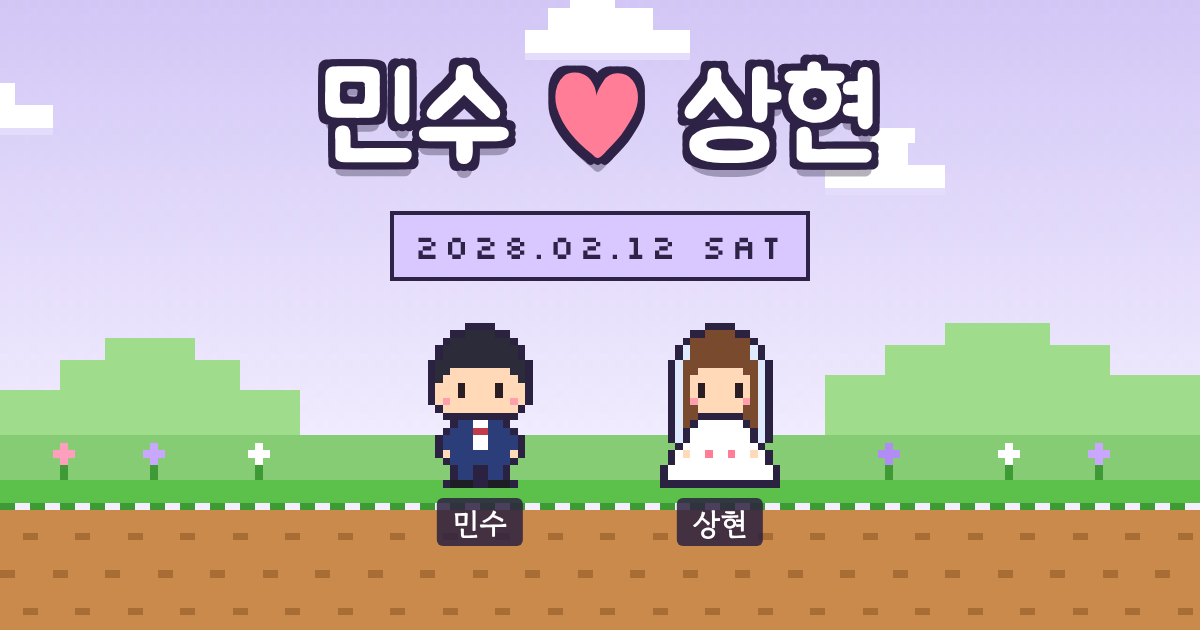
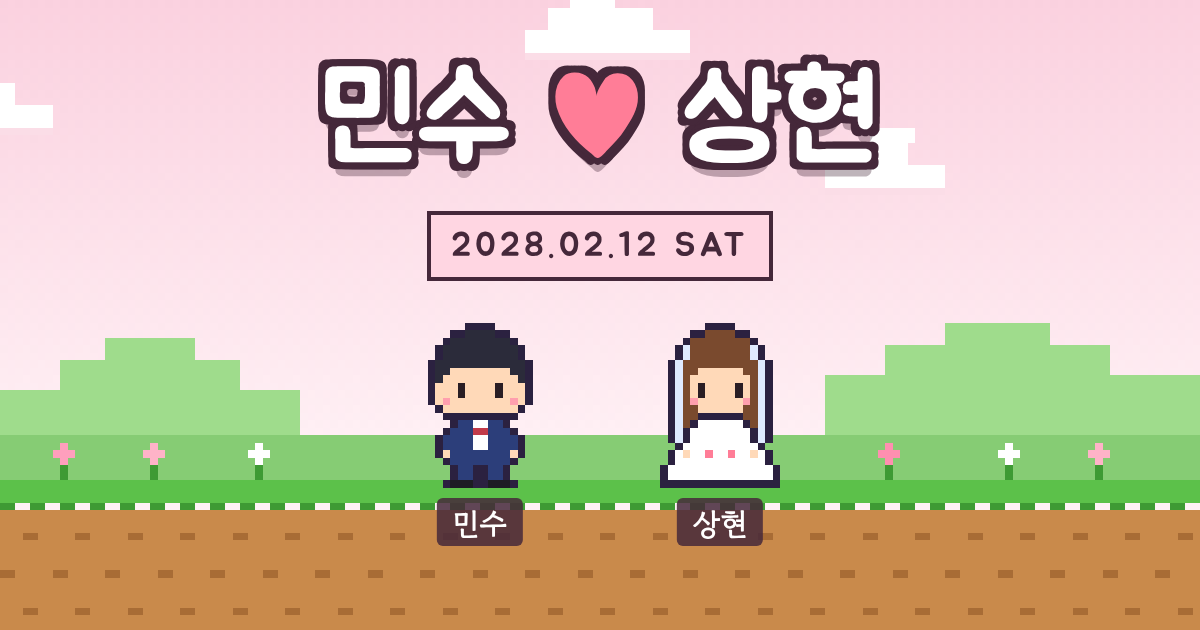
핑크 테마로 변경, 대사창 가운데 정렬, 링크 미리보기 그림 새로 만들기
Claude-Session: https://claude.ai/code/session_01RqerWgaCaLmnUzuXHHVWnt

diff --git a/wedding-quest/public/index.html b/wedding-quest/public/index.html
@@ -10,7 +10,7 @@
 <meta property="og:title" content="민수와 상현의 결혼 퀘스트">
 <meta property="og:description" content="2028.02.12 SAT 오전 11시 · 비렌티 (천안)">
 <!-- 링크 미리보기 그림: scripts/og.mjs 로 다시 만들 수 있어요 -->
-<meta property="og:image" content="https://wedding-quest-seven.vercel.app/og.png">
+<meta property="og:image" content="https://wedding-quest-seven.vercel.app/og.png?v=2">
 <meta property="og:image:width" content="1200">
 <meta property="og:image:height" content="630">
 <meta property="og:image:alt" content="도트 캐릭터 민수와 상현이 나란히 서 있는 결혼 퀘스트 그림">
@@ -26,8 +26,8 @@ document.documentElement.classList.add('intro');
 <style>
 /* Layout: one phone-width column of game windows floating over a pixel sky; HUD → main quest title → scene → STEP 1~6 → inventory */
 :root{
-  --ink:#2e2347; --paper:#fdfbff; --paper2:#ece4fb;
-  --tab:#cdbdf8; --accent:#5b3fb8; --gold:#d8c8ff; --gold-d:#b39cf0; --rose:#ff7d97; --leaf:#55b947; --mute:#4b4066;
+  --ink:#45283a; --paper:#fffbfc; --paper2:#fbe3ea;
+  --tab:#ffcadb; --accent:#c2255c; --gold:#ffd6e2; --gold-d:#f4a6bd; --rose:#ff7d97; --leaf:#55b947; --mute:#5e4552;
   --f-display:"Jua","Gowun Dodum",system-ui,sans-serif;
   --f-body:"Gowun Dodum","Apple SD Gothic Neo","Malgun Gothic",system-ui,sans-serif;
   --f-pixel:var(--f-display);
@@ -38,18 +38,18 @@ body{margin:0;background:#fff;color:var(--ink);font-family:var(--f-body);font-si
 .wrap{max-width:440px;margin:0 auto;padding-left:max(16px,env(safe-area-inset-left,0px));padding-right:max(16px,env(safe-area-inset-right,0px));padding-block:14px 40px;display:flex;flex-direction:column;gap:18px}
 
 /* HUD */
-.hud{display:flex;justify-content:space-between;align-items:center;gap:10px;background:rgba(46,35,71,.82);color:#fff;border:3px solid var(--ink);border-radius:6px;padding:6px 10px;font-family:var(--f-pixel);font-size:12px;letter-spacing:.06em}
-.hud .dday{color:#e6dbff;font-weight:700;font-variant-numeric:tabular-nums}
+.hud{display:flex;justify-content:space-between;align-items:center;gap:10px;background:rgba(69,40,58,.82);color:#fff;border:3px solid var(--ink);border-radius:6px;padding:6px 10px;font-family:var(--f-pixel);font-size:12px;letter-spacing:.06em}
+.hud .dday{color:#ffd6e2;font-weight:700;font-variant-numeric:tabular-nums}
 
 /* Scene */
 .scene{position:relative;border:3px solid var(--ink);border-radius:6px;overflow:hidden;box-shadow:0 4px 0 var(--ink)}
 .scene canvas{display:block;width:100%;height:auto;image-rendering:pixelated;image-rendering:crisp-edges}
 .scene .title{position:absolute;left:0;right:0;top:7%;text-align:center;pointer-events:none}
 .scene h1{margin:0;font-family:var(--f-display);font-weight:400;font-size:clamp(30px,9vw,40px);line-height:1.1;color:#fff;text-wrap:balance;
-  text-shadow:3px 0 var(--ink),-3px 0 var(--ink),0 3px var(--ink),0 -3px var(--ink),3px 3px var(--ink),-3px 3px var(--ink),3px -3px var(--ink),-3px -3px var(--ink),0 6px 0 rgba(43,33,64,.35)}
+  text-shadow:3px 0 var(--ink),-3px 0 var(--ink),0 3px var(--ink),0 -3px var(--ink),3px 3px var(--ink),-3px 3px var(--ink),3px -3px var(--ink),-3px -3px var(--ink),0 6px 0 rgba(69,40,58,.35)}
 .scene h1 .h{color:var(--rose)}
 .scene .date{display:inline-block;margin-top:6px;font-family:var(--f-pixel);font-size:12px;letter-spacing:.12em;color:var(--ink);background:var(--gold);border:2px solid var(--ink);padding:1px 8px}
-.tag{position:absolute;top:84%;transform:translateX(-50%);background:rgba(43,33,64,.85);color:#fff;font-size:11px;line-height:1;padding:4px 7px 3px;border-radius:3px;white-space:nowrap;font-family:var(--f-body);font-weight:700}
+.tag{position:absolute;top:84%;transform:translateX(-50%);background:rgba(69,40,58,.85);color:#fff;font-size:11px;line-height:1;padding:4px 7px 3px;border-radius:3px;white-space:nowrap;font-family:var(--f-body);font-weight:700}
 .tag.groom{left:40%} .tag.bride{left:60%}
 
 /* Windows */
@@ -84,7 +84,7 @@ body{margin:0;background:#fff;color:var(--ink);font-family:var(--f-body);font-si
 .cal-h{text-align:center;font-family:var(--f-pixel);font-size:12px;letter-spacing:.1em;margin-bottom:6px}
 .cal-g{display:grid;grid-template-columns:repeat(7,1fr);text-align:center;font-family:var(--f-pixel);font-size:12px;gap:2px;font-variant-numeric:tabular-nums}
 .cal-g .dow{color:var(--mute);font-size:11px}
-.cal-g .sun{color:#d9455f} .cal-g .sat{color:var(--accent)}
+.cal-g .sun{color:#d9455f} .cal-g .sat{color:#3d6bd1}
 .cal-g .on{background:var(--rose);color:#fff;border:2px solid var(--ink);border-radius:3px;position:relative}
 .cal-g .on::after{content:"♥";position:absolute;top:-11px;left:50%;transform:translateX(-50%);color:var(--rose);font-size:10px}
 
@@ -112,7 +112,7 @@ body{margin:0;background:#fff;color:var(--ink);font-family:var(--f-body);font-si
 .rk{font-family:var(--f-display)} .pz{min-width:0}
 footer{text-align:center;font-family:var(--f-pixel);font-size:11px;letter-spacing:.1em;color:var(--mute)}
 
-.toast{position:fixed;left:50%;bottom:calc(18px + env(safe-area-inset-bottom,0px));transform:translate(-50%,20px);opacity:0;pointer-events:none;background:rgba(43,33,64,.92);color:#fff;border:2px solid var(--gold);border-radius:4px;padding:8px 14px;font-size:13px;max-width:calc(100% - 32px);text-align:center;transition:.25s;z-index:20}
+.toast{position:fixed;left:50%;bottom:calc(18px + env(safe-area-inset-bottom,0px));transform:translate(-50%,20px);opacity:0;pointer-events:none;background:rgba(69,40,58,.92);color:#fff;border:2px solid var(--gold);border-radius:4px;padding:8px 14px;font-size:13px;max-width:calc(100% - 32px);text-align:center;transition:.25s;z-index:20}
 .toast.show{opacity:1;transform:translate(-50%,0)}
 @media (prefers-reduced-motion:reduce){.toast{transition:none}}
 
@@ -122,7 +122,7 @@ footer{text-align:center;font-family:var(--f-pixel);font-size:11px;letter-spacin
 .announce{border:3px solid var(--ink);border-radius:4px;background:linear-gradient(180deg,#fff6d6,#fff);padding:10px;display:flex;flex-direction:column;gap:8px}
 .announce h3{margin:0;font-family:var(--f-display);font-weight:400;font-size:17px;display:flex;align-items:center;gap:8px}
 .announce h3 small{font-family:var(--f-pixel);font-size:10px;letter-spacing:.12em;color:#fff;background:var(--rose);border:2px solid var(--ink);padding:0 6px}
-.ranks .win-name{font-family:var(--f-display);color:#5b3fb8}
+.ranks .win-name{font-family:var(--f-display);color:var(--accent)}
 
 /* Prologue overlay */
 .intro-ov{display:none;position:fixed;inset:0;z-index:30;background:#fff;overflow-y:auto;overscroll-behavior:contain}
@@ -130,25 +130,25 @@ html.intro .intro-ov{display:block}
 html.intro body{overflow:hidden}
 .intro-ov.bye{opacity:0;transition:opacity .5s}
 .intro-in{max-width:440px;min-height:100%;margin:0 auto;padding:14px max(16px,env(safe-area-inset-right,0px)) calc(24px + env(safe-area-inset-bottom,0px)) max(16px,env(safe-area-inset-left,0px));display:flex;flex-direction:column;gap:16px}
-.intro-hud{display:flex;justify-content:space-between;align-items:center;gap:10px;background:rgba(46,35,71,.82);color:#fff;border:3px solid var(--ink);border-radius:6px;padding:6px 10px;font-family:var(--f-pixel);font-size:12px;letter-spacing:.06em}
+.intro-hud{display:flex;justify-content:space-between;align-items:center;gap:10px;background:rgba(69,40,58,.82);color:#fff;border:3px solid var(--ink);border-radius:6px;padding:6px 10px;font-family:var(--f-pixel);font-size:12px;letter-spacing:.06em}
 .intro-ov .btn:focus-visible{outline:3px solid var(--rose);outline-offset:2px}
 .stage{display:flex;flex-direction:column;gap:16px}
 .logo{text-align:center;font-family:var(--f-display);font-size:clamp(34px,11vw,46px);line-height:1.05;color:#fff;margin:18px 0 4px;
-  text-shadow:3px 0 var(--ink),-3px 0 var(--ink),0 3px var(--ink),0 -3px var(--ink),3px 3px var(--ink),-3px 3px var(--ink),3px -3px var(--ink),-3px -3px var(--ink),0 6px 0 rgba(43,33,64,.35)}
+  text-shadow:3px 0 var(--ink),-3px 0 var(--ink),0 3px var(--ink),0 -3px var(--ink),3px 3px var(--ink),-3px 3px var(--ink),3px -3px var(--ink),-3px -3px var(--ink),0 6px 0 rgba(69,40,58,.35)}
 .logo small{display:block;font-family:var(--f-pixel);font-size:12px;letter-spacing:.2em;color:var(--ink);text-shadow:none;margin-bottom:8px}
 .party{display:flex;gap:10px}
 .party .mem{flex:1;min-width:0;background:#fff;border:2px solid var(--ink);border-radius:4px;padding:6px;display:flex;gap:8px;align-items:center}
-.party canvas{flex:none;width:48px;height:auto;image-rendering:pixelated;background:linear-gradient(180deg,#d9ccff,#f4efff);border:2px solid var(--ink);border-radius:3px}
+.party canvas{flex:none;width:48px;height:auto;image-rendering:pixelated;background:linear-gradient(180deg,#ffd6e2,#fff3f6);border:2px solid var(--ink);border-radius:3px}
 .party b{display:block;font-family:var(--f-display);font-weight:400;font-size:15px}
 .party span{font-size:13px;color:var(--mute)}
 .start-btns{display:flex;flex-direction:column;gap:10px;align-items:stretch}
 .start-btns .btn{justify-content:center}
 .big-skip{font-size:17px;padding:10px 14px}
 #stPlay .scene,.talk{cursor:pointer;-webkit-tap-highlight-color:transparent;user-select:none}
-.talk{display:flex;flex-direction:column;align-items:flex-start}
-.tap{align-self:flex-end;font-family:var(--f-display);font-size:14px;color:#5b3fb8;animation:blink 1s steps(2) infinite}
-.choices{align-items:center}
-.go-hint{font-family:var(--f-display);font-size:16px;color:#5b3fb8;animation:nudge 1s ease-in-out infinite}
+.talk{display:flex;flex-direction:column;align-items:center;text-align:center}
+.tap{align-self:flex-end;font-family:var(--f-display);font-size:14px;color:var(--accent);animation:blink 1s steps(2) infinite}
+.choices{align-items:center;justify-content:center}
+.go-hint{font-family:var(--f-display);font-size:16px;color:var(--accent);animation:nudge 1s ease-in-out infinite}
 @keyframes nudge{50%{transform:translateX(-4px)}}
 .blink{animation:blink 1s steps(2) infinite}
 .replay{align-self:center;font:inherit;font-family:var(--f-body);font-size:14px;color:var(--mute);background:transparent;border:0;text-decoration:underline;cursor:pointer}
@@ -162,7 +162,7 @@ html.intro body{overflow:hidden}
 
 /* Main quest title */
 .mq{margin:4px 0 -4px;text-align:center;font-family:var(--f-display);font-weight:400;font-size:clamp(30px,9.5vw,40px);line-height:1.15;color:#fff;text-wrap:balance;
-  text-shadow:3px 0 var(--ink),-3px 0 var(--ink),0 3px var(--ink),0 -3px var(--ink),3px 3px var(--ink),-3px 3px var(--ink),3px -3px var(--ink),-3px -3px var(--ink),0 6px 0 rgba(43,33,64,.35)}
+  text-shadow:3px 0 var(--ink),-3px 0 var(--ink),0 3px var(--ink),0 -3px var(--ink),3px 3px var(--ink),-3px 3px var(--ink),3px -3px var(--ink),-3px -3px var(--ink),0 6px 0 rgba(69,40,58,.35)}
 .mq small{display:table;margin:0 auto 8px;font-family:var(--f-pixel);font-size:11px;letter-spacing:.16em;color:var(--ink);background:var(--tab);border:2px solid var(--ink);padding:1px 8px;text-shadow:none}
 .step{scroll-margin-top:12px}
 .greet{margin:0;text-align:center;font-size:16px;line-height:1.9;white-space:pre-line}
@@ -170,7 +170,7 @@ html.intro body{overflow:hidden}
 .parents p{margin:0;font-size:16px}
 .parents .pn{font-family:var(--f-display)}
 .parents .rel{color:var(--mute);margin-left:2px}
-.parents b{font-family:var(--f-display);font-weight:400;font-size:18px;color:#5b3fb8}
+.parents b{font-family:var(--f-display);font-weight:400;font-size:18px;color:var(--accent)}
 .mine{margin:0;font-size:14px;background:#f1fbe9;border:2px solid var(--ink);border-radius:4px;padding:6px 10px}
 
 /* Gallery */
@@ -179,7 +179,7 @@ html.intro body{overflow:hidden}
 .gal button:focus-visible{outline:3px solid var(--rose);outline-offset:2px}
 .gal img{width:100%;height:100%;object-fit:cover;display:block}
 dialog.lb{width:min(560px,calc(100% - 16px))}
-.lb-b{position:relative;background:#1d1830;display:grid;place-items:center;min-height:200px}
+.lb-b{position:relative;background:#2a1820;display:grid;place-items:center;min-height:200px}
 .lb-b img{display:block;max-width:100%;max-height:calc(100dvh - 120px);width:auto;height:auto}
 .lb-nav{position:absolute;top:50%;transform:translateY(-50%);width:36px;height:36px;border:2px solid var(--ink);border-radius:4px;background:rgba(255,255,255,.85);font-size:13px;cursor:pointer;color:var(--ink)}
 .lb-nav:focus-visible{outline:3px solid var(--rose)}
@@ -212,7 +212,7 @@ dialog.lb{width:min(560px,calc(100% - 16px))}
 
 /* Game-window dialogs */
 dialog.pop{padding:0;border:0;background:transparent;width:min(440px,calc(100% - 32px));max-height:calc(100dvh - 32px);overflow:visible;color:var(--ink)}
-dialog.pop::backdrop{background:rgba(46,35,71,.55)}
+dialog.pop::backdrop{background:rgba(69,40,58,.55)}
 dialog.pop .win{max-height:calc(100dvh - 40px);display:flex;flex-direction:column}
 dialog.pop .win-b{overflow-y:auto;overscroll-behavior:contain}
 .win-h .close{margin-left:auto;font:inherit;font-family:var(--f-pixel);font-size:11px;color:var(--ink);background:transparent;border:2px solid var(--ink);width:24px;height:24px;display:grid;place-items:center;cursor:pointer;padding:0}
@@ -236,9 +236,9 @@ dialog.pop .win-b{overflow-y:auto;overscroll-behavior:contain}
 .gb-list p{margin:2px 0 0;font-size:14px;white-space:pre-line;overflow-wrap:anywhere}
 .empty{margin:0;text-align:center;font-size:14px;color:var(--mute);padding:10px 0}
 /* 배경음악 버튼 (bgm.js): 프롤로그 위에서도 보이게 맨 위에 띄워요 */
-.bgm{position:fixed;z-index:40;right:max(12px,env(safe-area-inset-right,0px));bottom:calc(12px + env(safe-area-inset-bottom,0px));display:flex;align-items:center;gap:4px;height:40px;padding:0 10px;font-family:var(--f-pixel);font-size:12px;color:#fff;background:rgba(46,35,71,.86);border:3px solid var(--ink);border-radius:6px;box-shadow:0 3px 0 rgba(43,33,64,.35);cursor:pointer;-webkit-tap-highlight-color:transparent}
+.bgm{position:fixed;z-index:40;right:max(12px,env(safe-area-inset-right,0px));bottom:calc(12px + env(safe-area-inset-bottom,0px));display:flex;align-items:center;gap:4px;height:40px;padding:0 10px;font-family:var(--f-pixel);font-size:12px;color:#fff;background:rgba(69,40,58,.86);border:3px solid var(--ink);border-radius:6px;box-shadow:0 3px 0 rgba(69,40,58,.35);cursor:pointer;-webkit-tap-highlight-color:transparent}
 .bgm .n{font-size:16px;line-height:1}
-.bgm.off{color:#cfc6e6}
+.bgm.off{color:#ecccd8}
 .bgm.off .n{text-decoration:line-through}
 .bgm:focus-visible{outline:3px solid var(--rose);outline-offset:2px}
 </style>
@@ -533,11 +533,11 @@ dialog.pop .win-b{overflow-y:auto;overscroll-behavior:contain}
   function cloud(g,x,y,big){
     g.fillStyle='#ffffff';
     var w=big?22:16; g.fillRect(x,y,w,4); g.fillRect(x+3,y-3,w-8,3); g.fillRect(x+6,y-5,6,2);
-    g.fillStyle='#e4dcfb'; g.fillRect(x,y+3,w,1);
+    g.fillStyle='#fbdde7'; g.fillRect(x,y+3,w,1);
   }
   /* Background, shared with the prologue (intro.js) */
   function world(g,t){
-    var sky=g.createLinearGradient(0,0,0,GY); sky.addColorStop(0,'#c4b6f2'); sky.addColorStop(1,'#f4efff');
+    var sky=g.createLinearGradient(0,0,0,GY); sky.addColorStop(0,'#f9c4d6'); sky.addColorStop(1,'#fff2f6');
     g.fillStyle=sky; g.fillRect(0,0,W,H);
     clouds.forEach(function(c){ var x = ((c.x + t*0.004*(c.s?1:0.6)) % (W+30)) - 25; cloud(g,Math.round(x),c.y,c.s); });
     /* stepped hills */
@@ -550,7 +550,7 @@ dialog.pop .win-b{overflow-y:auto;overscroll-behavior:contain}
     g.fillStyle='#c98a4b'; g.fillRect(0,GY+4,W,H-GY-4);
     g.fillStyle='#a86c35'; for(var yy=GY+7;yy<H;yy+=5){for(var xx=(yy%2)*3;xx<W;xx+=7){g.fillRect(xx,yy,2,1);}}
     /* flowers */
-    [[20,'#c9a7ff'],[34,'#ffffff'],[118,'#b18cf5'],[134,'#ffffff'],[146,'#c9a7ff'],[8,'#ff9fbd']].forEach(function(f){
+    [[20,'#ffb3c8'],[34,'#ffffff'],[118,'#ff8fb0'],[134,'#ffffff'],[146,'#ffb3c8'],[8,'#ff9fbd']].forEach(function(f){
       g.fillStyle='#3e9a34'; g.fillRect(f[0],GY-2,1,2); g.fillStyle=f[1]; g.fillRect(f[0]-1,GY-4,3,1); g.fillRect(f[0],GY-5,1,3);
     });
   }
@@ -566,7 +566,7 @@ dialog.pop .win-b{overflow-y:auto;overscroll-behavior:contain}
     var hp={o:'#2b2140',r:'#ff6b88'};
     drawSprite(g,heart,hp,76,hy);
     /* petals */
-    if(!reduce){ petals.forEach(function(p){ p.y+=p.v; p.p+=.02; if(p.y>GY){p.y=-2;p.x=Math.random()*W;} g.fillStyle=(p.p|0)%2?'#ffffff':'#d6c2ff'; g.fillRect(Math.round(p.x+Math.sin(p.p)*3),Math.round(p.y),2,1); }); }
+    if(!reduce){ petals.forEach(function(p){ p.y+=p.v; p.p+=.02; if(p.y>GY){p.y=-2;p.x=Math.random()*W;} g.fillStyle=(p.p|0)%2?'#ffffff':'#ffc4d4'; g.fillRect(Math.round(p.x+Math.sin(p.p)*3),Math.round(p.y),2,1); }); }
   }
   if (reduce) frame(0); else (function loop(t){frame(t||0);requestAnimationFrame(loop);})();
   window.WQ = {drawSprite:drawSprite, world:world, groom:groom, bride:bride, base:base, PB:PB, PG:PG, heart:heart, reduce:reduce, W:W, H:H, GY:GY};

diff --git a/wedding-quest/public/admin.html b/wedding-quest/public/admin.html
@@ -10,8 +10,8 @@
 <link rel="stylesheet" href="https://fonts.googleapis.com/css2?family=Jua&family=Gowun+Dodum&display=swap">
 <style>
 :root{
-  --ink:#2e2347; --paper:#fdfbff; --paper2:#ece4fb;
-  --tab:#cdbdf8; --accent:#5b3fb8; --gold:#d8c8ff; --gold-d:#b39cf0; --rose:#ff7d97; --mute:#4b4066; --red:#c23b4a;
+  --ink:#45283a; --paper:#fffbfc; --paper2:#fbe3ea;
+  --tab:#ffcadb; --accent:#c2255c; --gold:#ffd6e2; --gold-d:#f4a6bd; --rose:#ff7d97; --mute:#5e4552; --red:#c23b4a;
   --f-display:"Jua","Gowun Dodum",system-ui,sans-serif;
   --f-body:"Gowun Dodum","Apple SD Gothic Neo","Malgun Gothic",system-ui,sans-serif;
   --f-pixel:var(--f-display);
@@ -20,8 +20,8 @@
 *{box-sizing:border-box}
 body{margin:0;background:#fff;color:var(--ink);font-family:var(--f-body);font-size:15px;line-height:1.6;min-height:100vh}
 .wrap{max-width:960px;margin:0 auto;padding:14px max(16px,env(safe-area-inset-right,0px)) 40px max(16px,env(safe-area-inset-left,0px));display:flex;flex-direction:column;gap:18px}
-.hud{display:flex;justify-content:space-between;align-items:center;gap:10px;background:rgba(46,35,71,.82);color:#fff;border:3px solid var(--ink);border-radius:6px;padding:6px 10px;font-family:var(--f-pixel);font-size:12px;letter-spacing:.06em}
-.hud a{color:#e6dbff}
+.hud{display:flex;justify-content:space-between;align-items:center;gap:10px;background:rgba(69,40,58,.82);color:#fff;border:3px solid var(--ink);border-radius:6px;padding:6px 10px;font-family:var(--f-pixel);font-size:12px;letter-spacing:.06em}
+.hud a{color:#ffd6e2}
 .win{background:var(--paper);border:3px solid var(--ink);border-radius:6px;box-shadow:0 4px 0 var(--ink),inset 0 -4px 0 var(--paper2);min-width:0}
 .win-h{display:flex;align-items:center;gap:8px;flex-wrap:wrap;background:var(--tab);color:var(--ink);padding:5px 10px;border-bottom:3px solid var(--ink);font-family:var(--f-pixel);font-size:11px;letter-spacing:.1em;text-transform:uppercase}
 .win-h .ko{font-family:var(--f-display);font-size:15px;letter-spacing:0;text-transform:none}
@@ -60,7 +60,7 @@ input[type=password],#app input{font:inherit;font-size:16px;border:2px solid var
 .empty{margin:0;color:var(--mute);font-size:13px;text-align:center;padding:8px}
 #app{display:flex;flex-direction:column;gap:18px}
 [hidden]{display:none!important}
-.toast{position:fixed;left:50%;bottom:calc(18px + env(safe-area-inset-bottom,0px));transform:translate(-50%,20px);opacity:0;pointer-events:none;background:rgba(43,33,64,.92);color:#fff;border:2px solid var(--gold);border-radius:4px;padding:8px 14px;font-size:13px;max-width:calc(100% - 32px);text-align:center;transition:.25s}
+.toast{position:fixed;left:50%;bottom:calc(18px + env(safe-area-inset-bottom,0px));transform:translate(-50%,20px);opacity:0;pointer-events:none;background:rgba(69,40,58,.92);color:#fff;border:2px solid var(--gold);border-radius:4px;padding:8px 14px;font-size:13px;max-width:calc(100% - 32px);text-align:center;transition:.25s}
 .toast.show{opacity:1;transform:translate(-50%,0)}
 .sum{display:flex;gap:8px;flex-wrap:wrap}
 .sum div{flex:1;min-width:120px;border:2px solid var(--ink);border-radius:4px;background:#fff;padding:6px 10px}
